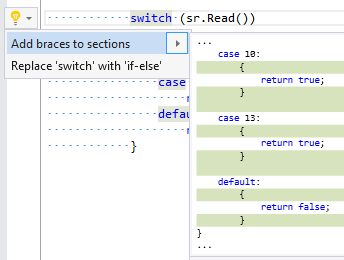
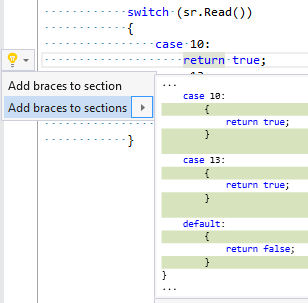
Change span of refactorings "AddBracesToSwitchSections", "RemoveBracesFromSwitchSections"

diff --git a/source/Refactorings/Refactorings/SwitchSectionRefactoring.cs b/source/Refactorings/Refactorings/SwitchSectionRefactoring.cs
@@ -1,6 +1,9 @@
 // Copyright (c) Josef Pihrt. All rights reserved. Licensed under the Apache License, Version 2.0. See License.txt in the project root for license information.
 
+using System.Linq;
+using Microsoft.CodeAnalysis;
 using Microsoft.CodeAnalysis.CSharp.Syntax;
+using Pihrtsoft.CodeAnalysis.CSharp.Analysis;
 
 namespace Pihrtsoft.CodeAnalysis.CSharp.Refactorings
 {
@@ -8,20 +11,57 @@ namespace Pihrtsoft.CodeAnalysis.CSharp.Refactorings
     {
         public static void ComputeRefactorings(RefactoringContext context, SwitchSectionSyntax switchSection)
         {
-            if (context.IsRefactoringEnabled(RefactoringIdentifiers.AddBracesToSwitchSection)
-                && AddBracesToSwitchSectionRefactoring.CanRefactor(switchSection))
+            if (context.IsAnyRefactoringEnabled(
+                RefactoringIdentifiers.AddBracesToSwitchSection,
+                RefactoringIdentifiers.AddBracesToSwitchSections,
+                RefactoringIdentifiers.RemoveBracesFromSwitchSection,
+                RefactoringIdentifiers.RemoveBracesFromSwitchSections))
             {
-                context.RegisterRefactoring(
-                    "Add braces to section",
-                    cancellationToken => AddBracesToSwitchSectionRefactoring.RefactorAsync(context.Document, switchSection, cancellationToken));
-            }
+                var switchStatement = (SwitchStatementSyntax)switchSection.Parent;
 
-            if (context.IsRefactoringEnabled(RefactoringIdentifiers.RemoveBracesFromSwitchSection)
-                && RemoveBracesFromSwitchSectionRefactoring.CanRefactor(context, switchSection))
-            {
-                context.RegisterRefactoring(
-                    "Remove braces from section",
-                    cancellationToken => RemoveBracesFromSwitchSectionRefactoring.RefactorAsync(context.Document, switchSection, cancellationToken));
+                SyntaxList<SwitchSectionSyntax> sections = switchStatement.Sections;
+
+                switch (SwitchStatementAnalysis.AnalyzeSection(switchSection))
+                {
+                    case SwitchSectionAnalysisResult.AddBraces:
+                        {
+                            if (context.IsRefactoringEnabled(RefactoringIdentifiers.AddBracesToSwitchSection))
+                            {
+                                context.RegisterRefactoring(
+                                    "Add braces to section",
+                                    cancellationToken => AddBracesToSwitchSectionRefactoring.RefactorAsync(context.Document, switchSection, cancellationToken));
+                            }
+
+                            if (context.IsRefactoringEnabled(RefactoringIdentifiers.AddBracesToSwitchSections)
+                                && sections.Any(f => f != switchSection && SwitchStatementAnalysis.CanAddBraces(f)))
+                            {
+                                context.RegisterRefactoring(
+                                    AddBracesToSwitchSectionsRefactoring.Title,
+                                    cancellationToken => AddBracesToSwitchSectionsRefactoring.RefactorAsync(context.Document, switchStatement, null, cancellationToken));
+                            }
+
+                            break;
+                        }
+                    case SwitchSectionAnalysisResult.RemoveBraces:
+                        {
+                            if (context.IsRefactoringEnabled(RefactoringIdentifiers.RemoveBracesFromSwitchSection))
+                            {
+                                context.RegisterRefactoring(
+                                    "Remove braces from section",
+                                    cancellationToken => RemoveBracesFromSwitchSectionRefactoring.RefactorAsync(context.Document, switchSection, cancellationToken));
+                            }
+
+                            if (context.IsRefactoringEnabled(RefactoringIdentifiers.RemoveBracesFromSwitchSections)
+                                && sections.Any(f => f != switchSection && SwitchStatementAnalysis.CanRemoveBraces(f)))
+                            {
+                                context.RegisterRefactoring(
+                                    RemoveBracesFromSwitchSectionsRefactoring.Title,
+                                    cancellationToken => RemoveBracesFromSwitchSectionsRefactoring.RefactorAsync(context.Document, switchStatement, null, cancellationToken));
+                            }
+
+                            break;
+                        }
+                }
             }
         }
     }

diff --git a/source/Refactorings/Refactorings/SwitchStatementRefactoring.cs b/source/Refactorings/Refactorings/SwitchStatementRefactoring.cs
@@ -1,9 +1,6 @@
 // Copyright (c) Josef Pihrt. All rights reserved. Licensed under the Apache License, Version 2.0. See License.txt in the project root for license information.
 
-using System.Collections.Generic;
-using System.Collections.Immutable;
 using System.Linq;
-using System.Text.RegularExpressions;
 using System.Threading.Tasks;
 using Microsoft.CodeAnalysis;
 using Microsoft.CodeAnalysis.CSharp;
@@ -32,40 +29,15 @@ namespace Pihrtsoft.CodeAnalysis.CSharp.Refactorings
 
             SelectedSwitchSectionsRefactoring.ComputeRefactorings(context, switchStatement);
 
-            if (switchStatement.Sections.Count > 0
-                && switchStatement.SwitchKeyword.Span.Contains(context.Span))
+            if (context.IsRefactoringEnabled(RefactoringIdentifiers.ReplaceSwitchWithIfElse)
+                && (switchStatement.SwitchKeyword.Span.Contains(context.Span) || context.Span.IsBetweenSpans(switchStatement))
+                && switchStatement
+                    .Sections
+                    .Any(section => !section.Labels.Contains(SyntaxKind.DefaultSwitchLabel)))
             {
-                if (context.IsAnyRefactoringEnabled(
-                    RefactoringIdentifiers.AddBracesToSwitchSections,
-                    RefactoringIdentifiers.RemoveBracesFromSwitchSections))
-                {
-                    SwitchStatementAnalysisResult result = SwitchStatementAnalysis.Analyze(switchStatement);
-
-                    if (result.CanAddBraces
-                        && context.IsRefactoringEnabled(RefactoringIdentifiers.AddBracesToSwitchSections))
-                    {
-                        context.RegisterRefactoring(
-                            AddBracesToSwitchSectionsRefactoring.Title,
-                            cancellationToken => AddBracesToSwitchSectionsRefactoring.RefactorAsync(context.Document, switchStatement, null, cancellationToken));
-                    }
-
-                    if (result.CanRemoveBraces
-                        && context.IsRefactoringEnabled(RefactoringIdentifiers.RemoveBracesFromSwitchSections))
-                    {
-                        context.RegisterRefactoring(
-                            RemoveBracesFromSwitchSectionsRefactoring.Title,
-                            cancellationToken => RemoveBracesFromSwitchSectionsRefactoring.RefactorAsync(context.Document, switchStatement, null, cancellationToken));
-                    }
-                }
-
-                if (context.IsRefactoringEnabled(RefactoringIdentifiers.ReplaceSwitchWithIfElse)
-                    && switchStatement.Sections
-                        .Any(section => !section.Labels.Contains(SyntaxKind.DefaultSwitchLabel)))
-                {
-                    context.RegisterRefactoring(
-                        "Replace 'switch' with 'if-else'",
-                        cancellationToken => ReplaceSwitchWithIfElseRefactoring.RefactorAsync(context.Document, switchStatement, cancellationToken));
-                }
+                context.RegisterRefactoring(
+                    "Replace 'switch' with 'if-else'",
+                    cancellationToken => ReplaceSwitchWithIfElseRefactoring.RefactorAsync(context.Document, switchStatement, cancellationToken));
             }
         }
     }

diff --git a/source/Refactorings/Refactorings/AddBracesToSwitchSectionRefactoring.cs b/source/Refactorings/Refactorings/AddBracesToSwitchSectionRefactoring.cs
@@ -1,10 +1,8 @@
 // Copyright (c) Josef Pihrt. All rights reserved. Licensed under the Apache License, Version 2.0. See License.txt in the project root for license information.
 
-using System.Linq;
 using System.Threading;
 using System.Threading.Tasks;
 using Microsoft.CodeAnalysis;
-using Microsoft.CodeAnalysis.CSharp;
 using Microsoft.CodeAnalysis.CSharp.Syntax;
 using static Microsoft.CodeAnalysis.CSharp.SyntaxFactory;
 
@@ -12,11 +10,6 @@ namespace Pihrtsoft.CodeAnalysis.CSharp.Refactorings
 {
     internal static class AddBracesToSwitchSectionRefactoring
     {
-        public static bool CanRefactor(SwitchSectionSyntax switchSection)
-        {
-            return switchSection.Statements.All(f => !f.IsKind(SyntaxKind.Block));
-        }
-
         public static async Task<Document> RefactorAsync(
             Document document,
             SwitchSectionSyntax switchSection,

diff --git a/source/Refactorings/Refactorings/RemoveBracesFromSwitchSectionRefactoring.cs b/source/Refactorings/Refactorings/RemoveBracesFromSwitchSectionRefactoring.cs
@@ -3,21 +3,12 @@
 using System.Threading;
 using System.Threading.Tasks;
 using Microsoft.CodeAnalysis;
-using Microsoft.CodeAnalysis.CSharp;
 using Microsoft.CodeAnalysis.CSharp.Syntax;
 
 namespace Pihrtsoft.CodeAnalysis.CSharp.Refactorings
 {
     internal static class RemoveBracesFromSwitchSectionRefactoring
     {
-        public static bool CanRefactor(RefactoringContext context, SwitchSectionSyntax switchSection)
-        {
-            SyntaxList<StatementSyntax> statements = switchSection.Statements;
-
-            return statements.Count == 1
-                && statements[0].IsKind(SyntaxKind.Block);
-        }
-
         public static async Task<Document> RefactorAsync(
             Document document,
             SwitchSectionSyntax switchSection,
